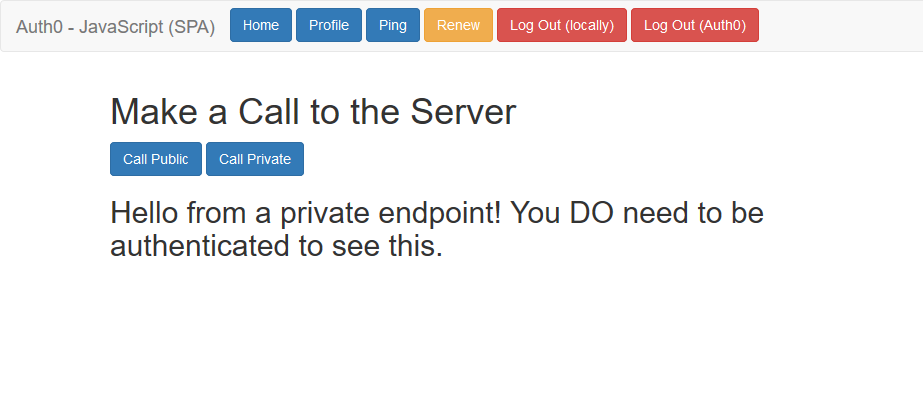
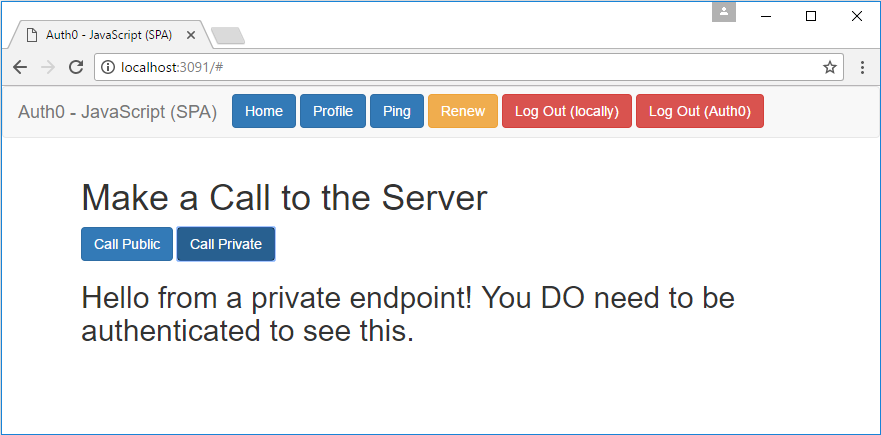
Update screenshots

Changed region(s): [[0.0, 0.0, 1.0, 0.806], [0.0, 0.9851, 1.0, 1.0], [0.9807, 0.0896, 1.0, 0.1194]]

diff --git a/app-spa/index.html b/app-spa/index.html
@@ -2,7 +2,7 @@
 <html>
 <head>
   <meta charset="utf-8">
-  <title>Authorization</title>
+  <title>Auth0 - JavaScript (SPA)</title>
   <base href="/">
 
   <meta name="viewport" content="width=device-width, initial-scale=1">
